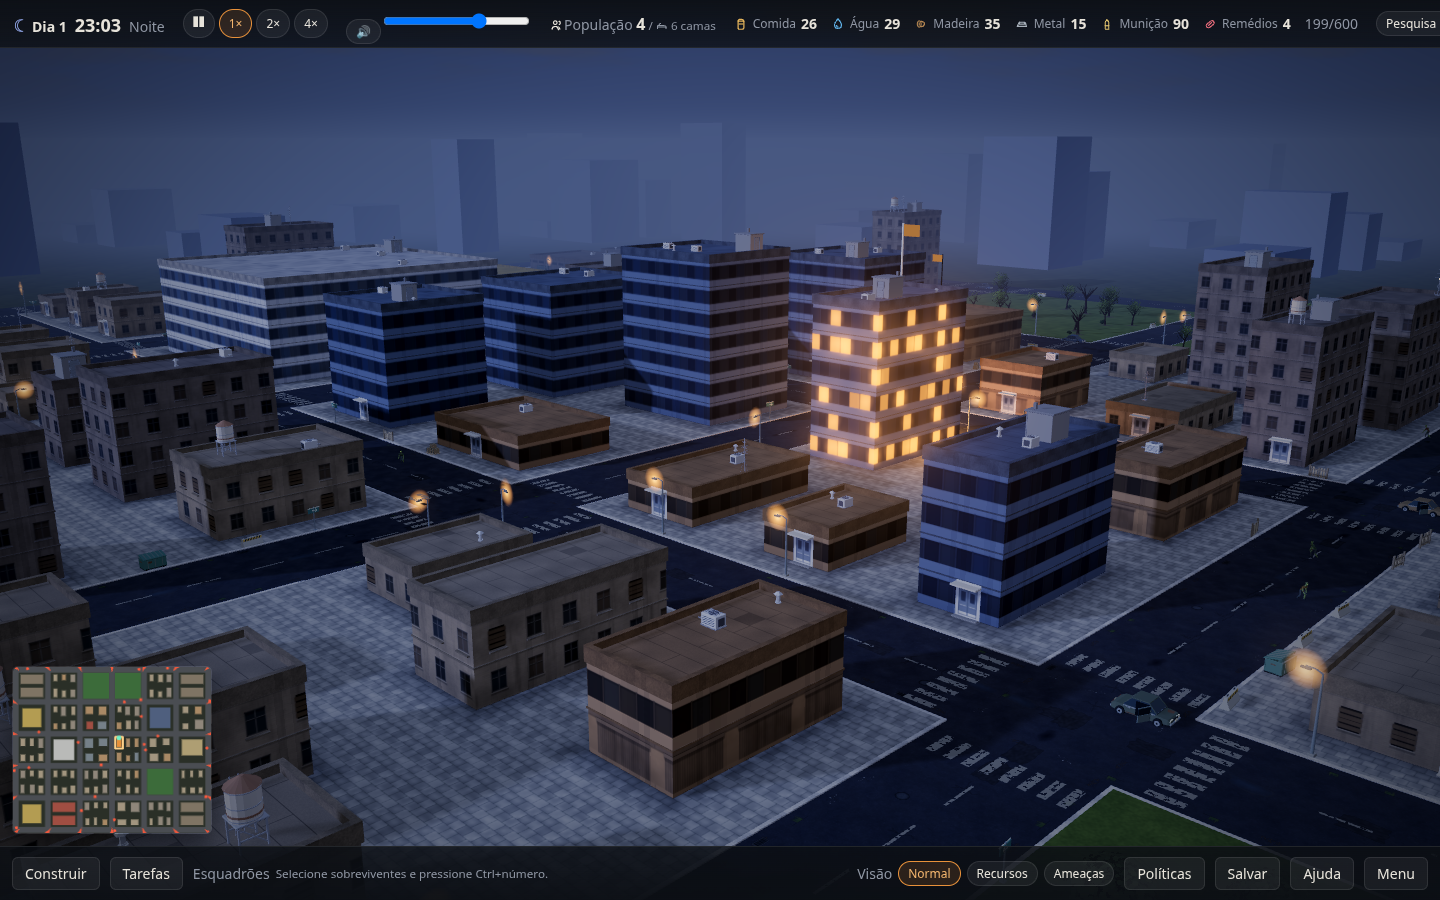
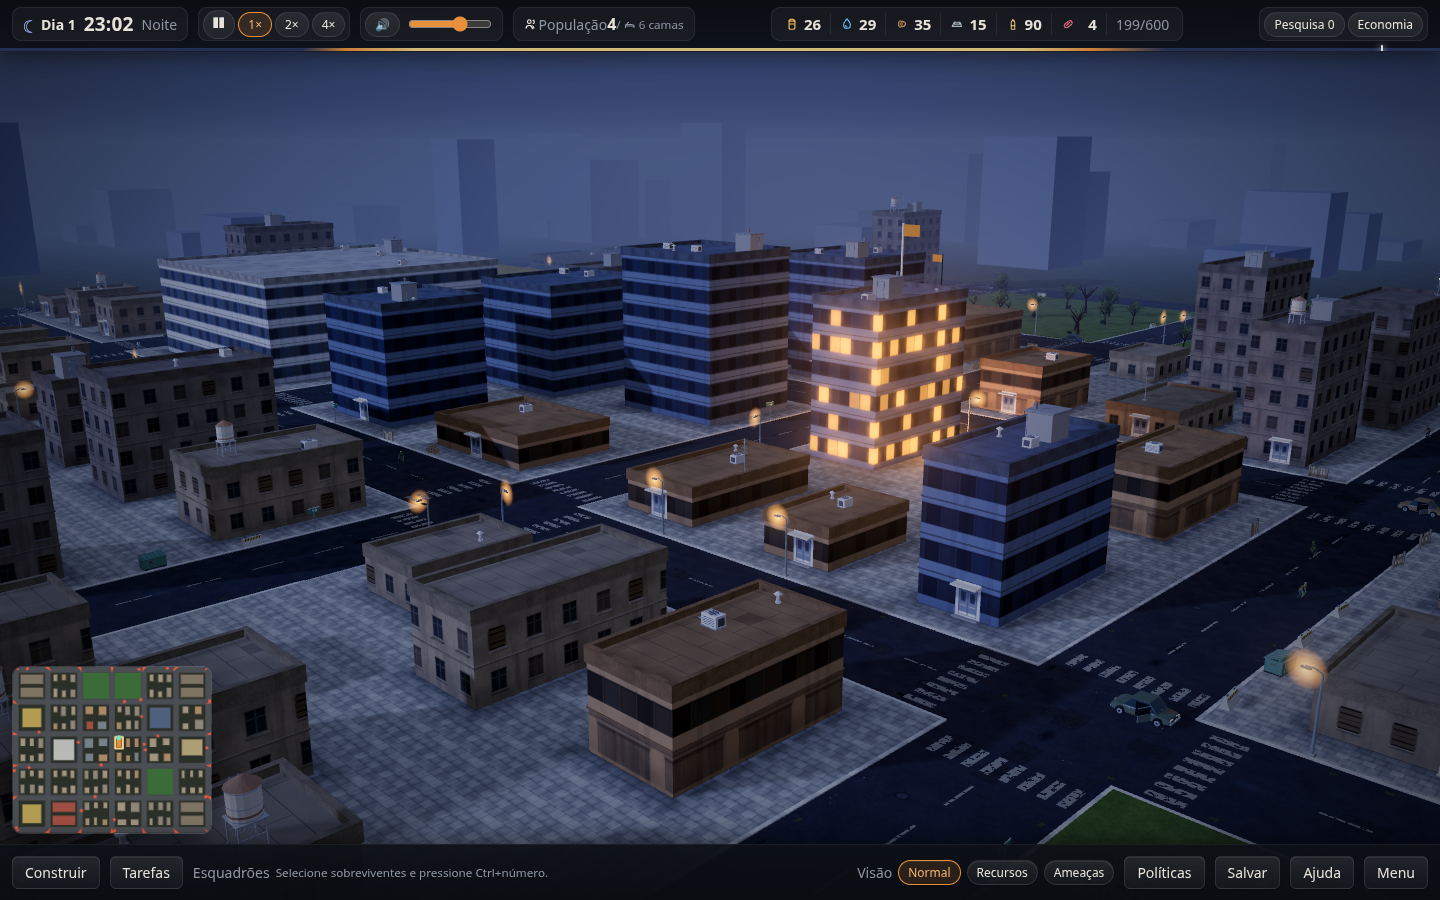
[ADD] web: the menu's backdrop is the city at night
tools/pack-menu-backdrop.ts scales the HUD-less night capture from the
atmosphere spec to 1600 px and ships it as a 128 KB JPEG, recorded in the
manifest. The overlay is lighter so the city shows, and the population
figures in the top bar get their spacing back.

diff --git a/apps/web/src/styles/app.css b/apps/web/src/styles/app.css
@@ -1010,6 +1010,15 @@ button.primary:hover:not(:disabled) {
   padding: 0 4px;
   gap: 3px;
 }
+/* A flex row drops the spaces between its children, so the gap puts them back. */
+.topbar .stat {
+  gap: 6px;
+}
+.topbar .stat small {
+  display: inline-flex;
+  align-items: center;
+  gap: 4px;
+}
 .topbar .audio {
   gap: 6px;
   padding: 0 8px 0 4px;
@@ -1138,8 +1147,8 @@ button.primary:hover:not(:disabled) {
 /* Menu: the city at night behind the card, darkened so the card still leads. */
 .menu {
   background:
-    linear-gradient(180deg, rgba(8, 10, 15, 0.55), rgba(8, 10, 15, 0.82)),
-    radial-gradient(ellipse at 50% 45%, transparent 30%, rgba(5, 7, 11, 0.75) 100%),
+    linear-gradient(180deg, rgba(8, 10, 15, 0.28), rgba(8, 10, 15, 0.66)),
+    radial-gradient(ellipse at 50% 45%, transparent 35%, rgba(5, 7, 11, 0.6) 100%),
     var(--menu-bg, none) center / cover no-repeat,
     #0e1116;
 }
